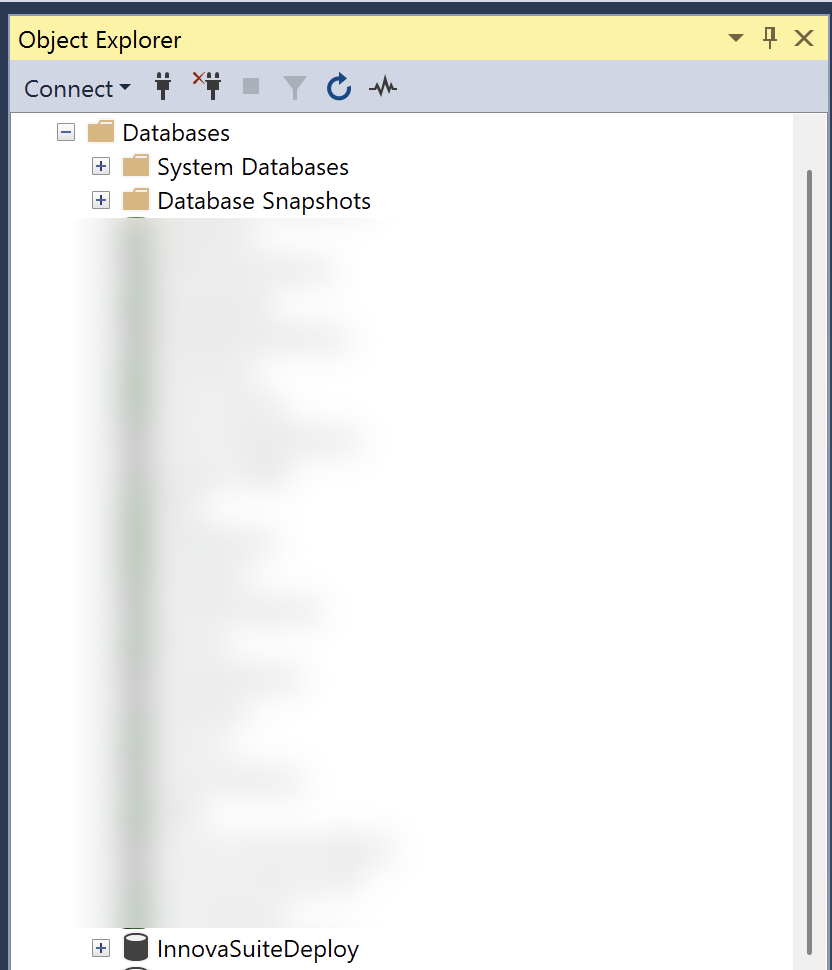
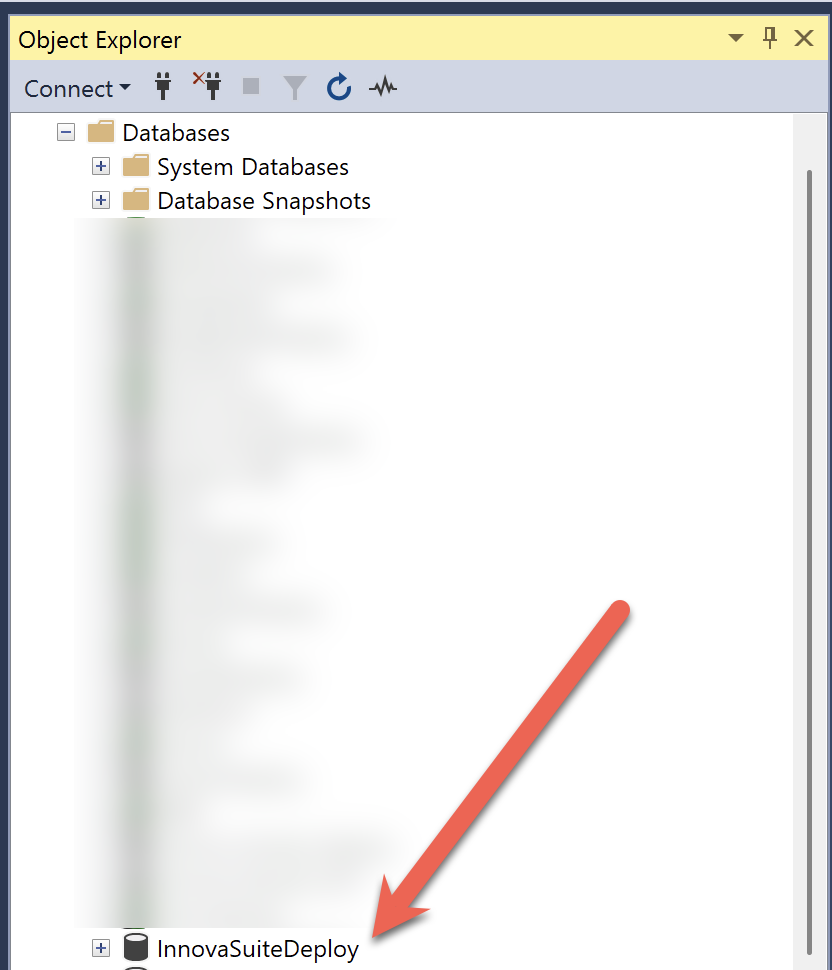
Minor edit

Changed region(s): [[0.4375, 0.6186, 0.7812, 0.9897]]

diff --git a/_posts/2026-03-01-fix-sql-server-database-stuck-in-restoring-state.md b/_posts/2026-03-01-fix-sql-server-database-stuck-in-restoring-state.md
@@ -7,7 +7,7 @@ categories:
     - FIX
 ---
 
-Recently, I noticed one of my SQL Server databases had been stuck in a 'Restoring' state for quite some time.
+Recently, I noticed one of my [SQL Server](https://www.microsoft.com/en-us/sql-server) databases had been **stuck** in a 'Restoring' state for quite some time.
 
 Which was strange, because I had not done anything to the database in question.
 
@@ -15,13 +15,11 @@ It looked like this:
 
 ![restoring](../images/2026/03/restoring.png)
 
-And it was stuck in that state for hours.
+And it was stuck in that state for **hours**.
 
-While in this state, you naturally cannot connect to the database.
+While in this state, you naturally **cannot connect** to the database.
 
-The solution is as follows:
-
-Run the following command:
+The solution is to run the following command:
 
 ```sql
 RESTORE DATABASE InnovaSuite WITH RECOVERY